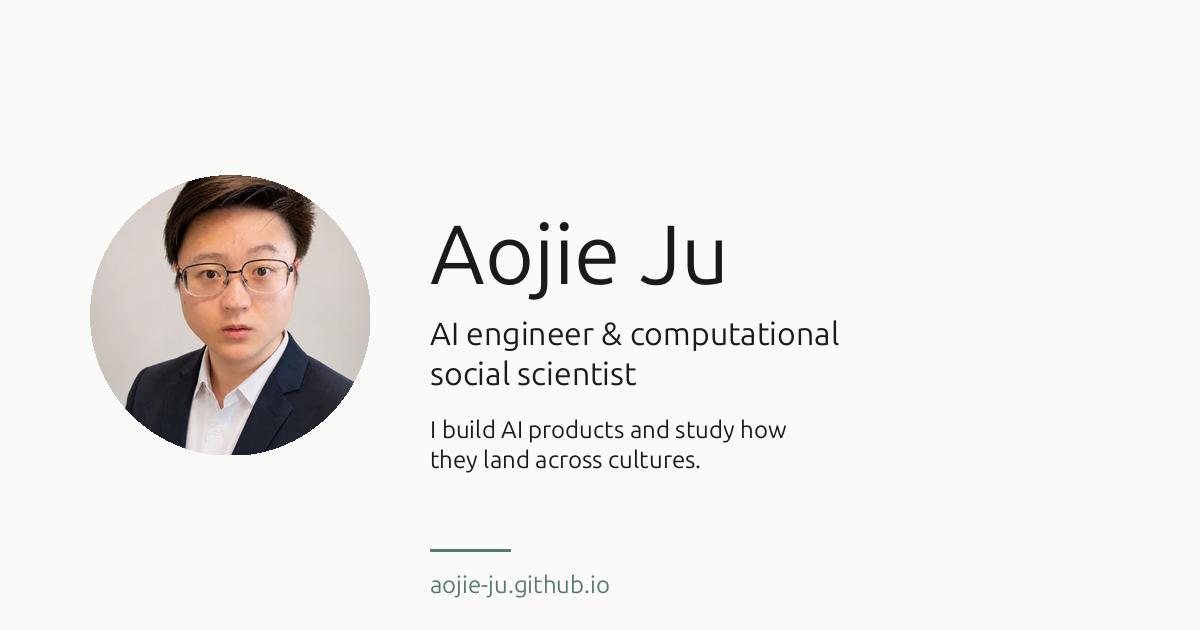
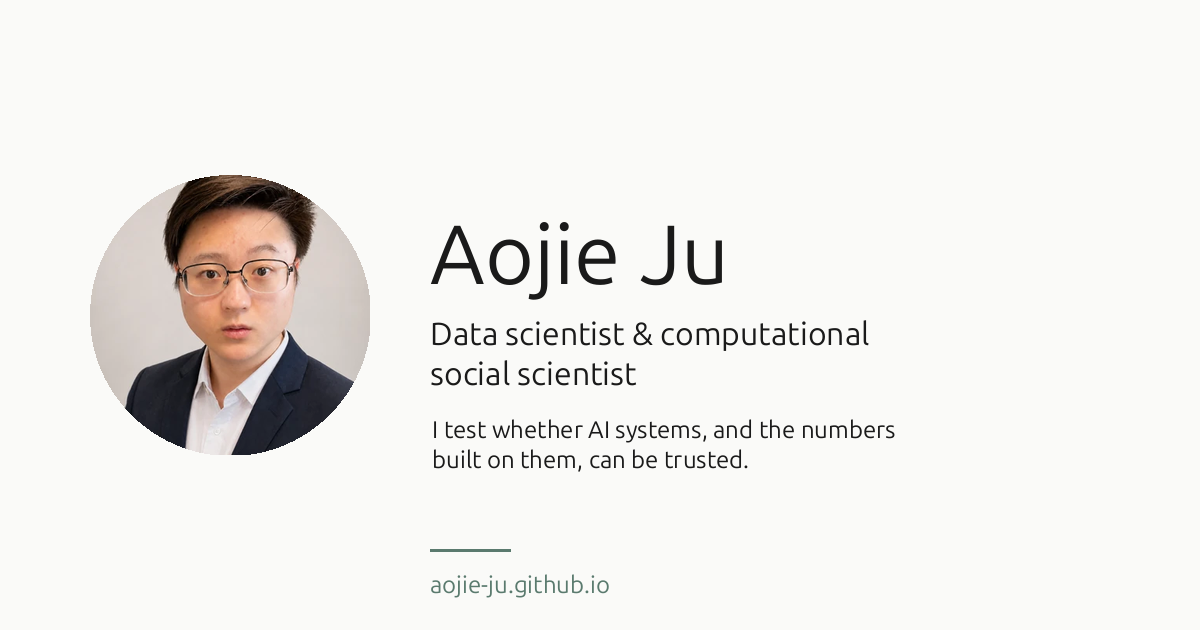
Align the site with the October CV: data scientist, no client details
- AristAI described as Data Scientist (Sept 2026 on), in the same general
  terms as the CV: no client names, no pre-employment work
- Remove the National Accreditation Platform entry and the ETF work
- IRisk Lab presented as research; drop the unsupported "3% error" claim
- Paper summary matches the CV (no "uncorrelated" claim)
- Title, metadata, structured data and the OG image say data scientist

Changed region(s): [[0.3392, 0.6635, 0.74, 0.754], [0.3392, 0.5127, 0.74, 0.573]]

diff --git a/app/page.tsx b/app/page.tsx
@@ -25,8 +25,8 @@ export default function Home() {
           <a href="#research" className="hover:text-sage transition-colors">
             Research
           </a>
-          <a href="#projects" className="hover:text-sage transition-colors">
-            Projects
+          <a href="#work" className="hover:text-sage transition-colors">
+            Work
           </a>
           <a href="#about" className="hover:text-sage transition-colors">
             About
@@ -42,11 +42,12 @@ export default function Home() {
               Aojie Ju
             </h1>
             <p className="text-xl mb-3 leading-snug">
-              I build AI products and study how they land across cultures.
+              I test whether AI systems, and the numbers built on them, can be
+              trusted.
             </p>
             <p className="text-sm text-ink/70 mb-5 leading-relaxed">
-              AristAI AI engineer · IC2S2 2026 paper on computational social
-              science · UIUC MS Data Science · bilingual EN/中文
+              Data Scientist at AristAI · IC2S2 2026 paper on LLM agents · UIUC
+              M.S. Data Science · bilingual EN/中文
             </p>
             <p className="text-sm">
               <a
@@ -94,13 +95,14 @@ export default function Home() {
             (presented at MPSA 2023) and earlier, Asian American political
             behavior — I kept running into the same question: how do
             institutions and the agents inside them actually shape behavior?
-            When the methods to answer it changed, I followed. An MS in Data
-            Science. Last year, quantitative work on weather-derivative
-            pricing, election sentiment, and ETF prediction. Now I build
-            LLM-powered tools for classroom discussion at AristAI, and study
-            what frontier models can and can&apos;t infer about political
-            strategy (IC2S2 2026). The thread is the question and the methods,
-            not the field.
+            When the methods to answer it changed, I followed. An M.S. in Data
+            Science, with research at the Illinois Risk Lab on weather
+            derivatives, insurance, public safety and election sentiment. Now
+            I&apos;m a data scientist at AristAI, working on AI tools for
+            college accreditation and on measuring when their judgments can be
+            trusted, and I study what frontier models can and can&apos;t infer
+            about political strategy (IC2S2 2026). The thread is the question
+            and the methods, not the field.
           </p>
         </section>
 
@@ -116,7 +118,8 @@ export default function Home() {
                   Validating LLM Agents in Spatial Voting Models.
                 </em>{' '}
                 International Conference on Computational Social Science (IC2S2
-                2026), Burlington, VT.{' '}
+                2026), Burlington, VT; an earlier version appeared at the
+                PoliSim Workshop, CHI 2026.{' '}
                 <a
                   href="/papers/ic2s2-2026.pdf"
                   className="text-sage hover:underline"
@@ -125,13 +128,12 @@ export default function Home() {
                 </a>
               </p>
               <p className="text-sm text-ink/70 mt-2 leading-relaxed">
-                Two studies test whether LLMs can both recognize and enact five
-                classic party strategies in a Laver (2005) spatial voting model.
-                GPT-4o recognizes strategies at 39% (vs 20% chance) but, as a
-                competing agent, rigidly plays one strategy regardless of
-                opponent — recognition and use are uncorrelated (r = -0.15),
-                showing that passing an inference test is necessary but
-                insufficient for LLM social-simulation agents.
+                Two studies ask whether LLMs that recognize a party&apos;s
+                strategy from simulated trajectories also choose it when placed
+                in the agent&apos;s role, in Laver&apos;s (2005) spatial model
+                of party competition. Six LLM configurations recognized
+                strategies at 9.4–39% accuracy (chance: 20%); recognizing a
+                strategy and choosing it were not clearly related.
               </p>
             </article>
             <article>
@@ -177,41 +179,43 @@ export default function Home() {
           <div className="space-y-6">
             <article>
               <h3 className="text-base font-semibold mb-1">
-                Colleague AI Distillation MCP Server{' '}
-                <span className="text-sm font-normal text-ink/60">— 2025</span>
+                Pricing Weather Derivatives under Stochastic Volatility{' '}
+                <span className="text-sm font-normal text-ink/60">
+                  — IRisk Lab, co-authored team report, 2025
+                </span>
               </h3>
               <p className="text-sm leading-relaxed text-ink/85">
-                Standalone MCP server synthesizing domain-expert evaluator
-                personas from heterogeneous scholarly sources (Google Scholar,
-                ORCID, ResearchGate) via Claude-generated 5-layer schemas.
+                Led model calibration: an Ornstein–Uhlenbeck temperature model
+                with Cox–Ingersoll–Ross volatility, fit to 45 years of daily
+                data for 13 cities. Priced degree-day derivatives by Monte Carlo
+                and FFT and checked them against CME settlement prices; the
+                standard model understated tail risk.
               </p>
             </article>
             <article>
               <h3 className="text-base font-semibold mb-1">
-                2024 Election Sentiment &amp; Voting Forecasts{' '}
+                2024 Election Sentiment{' '}
                 <span className="text-sm font-normal text-ink/60">
                   — IRisk Lab, 2024
                 </span>
               </h3>
               <p className="text-sm leading-relaxed text-ink/85">
-                Transformer-based sentiment analysis (Cardiff RoBERTa,
-                fine-tuned LSTM) forecasting voting outcomes within 3% error;
-                methodological connection to LLM-based public-opinion
-                measurement.
+                Measured sentiment in 2024 presidential-election tweets (Cardiff
+                RoBERTa, fine-tuned LSTM) and documented where model-based
+                opinion measurement breaks down.
               </p>
             </article>
             <article>
               <h3 className="text-base font-semibold mb-1">
-                Pricing Weather Derivatives under Stochastic Volatility{' '}
+                Insurance and Public-Safety Models{' '}
                 <span className="text-sm font-normal text-ink/60">
-                  — IRisk Lab, co-authored, 2025
+                  — IRisk Lab, 2024–2025
                 </span>
               </h3>
               <p className="text-sm leading-relaxed text-ink/85">
-                Calibrated Model M (OU + CIR) on daily temperature from 13
-                international cities; priced HDD derivatives via Monte Carlo
-                and FFT; validated against CME market quotes. Led model
-                calibration.
+                Tree-based models predicting life-insurance purchase (AUC from
+                0.78 to 0.86), and a GLM for San Francisco crime-prevention
+                analysis (deviance explained from 55% to 63%).
               </p>
             </article>
             <article>
@@ -222,44 +226,47 @@ export default function Home() {
                 </span>
               </h3>
               <p className="text-sm leading-relaxed text-ink/85">
-                Sole-authored quasi-experimental RDD on the Cape/Boer
-                demarcation in South Africa; finds the land system drives
-                4–12% gaps in modern compulsory education and household
-                electricity.
+                Sole-authored regression discontinuity design at the Cape/Boer
+                boundary in South Africa: the land system, not legal or cultural
+                Anglicization, drives 4–12% gaps in compulsory schooling and
+                household electricity today.
               </p>
             </article>
           </div>
         </section>
 
-        {/* Projects */}
-        <section id="projects" className="mb-20 scroll-mt-16">
-          <h2 className="text-xl font-semibold mb-6">Projects</h2>
+        {/* Work and Projects */}
+        <section id="work" className="mb-20 scroll-mt-16">
+          <h2 className="text-xl font-semibold mb-6">Work and Projects</h2>
           <div className="space-y-8">
             <article>
               <h3 className="text-base font-semibold mb-2">
-                AristAI{' '}
+                AristAI, Data Scientist{' '}
                 <span className="text-sm font-normal text-ink/60">
                   — Sept 2026 → Present
                 </span>
               </h3>
               <p className="text-sm text-ink/70 mb-2 leading-snug">
-                Real-time AI copilot for live classroom discussions.
+                AI tools that turn a college&apos;s own files into a
+                submission-ready accreditation self-study.
               </p>
               <p className="text-sm leading-relaxed text-ink/85 mb-3">
-                AI-assisted classroom forum used by instructors to run live
-                discussion sessions with real-time AI copilot support. I
-                designed the LLM-based voice intent classifier (30+ intent
-                categories, bilingual), the LangGraph-orchestrated copilot
-                with token-cost observability, and the MCP server exposing
-                30+ educational tools to AI agents.
+                Staff confirm the decisions instead of writing and checking by
+                hand. I work on whether the AI can be trusted: every output is
+                traced to the exact files it read and graded by a model from a
+                different provider than the one that wrote it, the AI review is
+                calibrated against an accreditor&apos;s own human ratings, and
+                AI assessments stay advisory, so a person makes the call. I
+                also keep the earnings data honest: public certificate-program
+                earnings stay apart from College Scorecard and Census figures
+                that measure different graduates.
               </p>
               {techTags([
-                'Next.js',
-                'FastAPI',
+                'LLM evaluation',
+                'Calibration',
+                'Python',
                 'PostgreSQL',
-                'LangGraph',
-                'MCP',
-                'Claude API',
+                'Claude Code',
               ])}
             </article>
             <article>
@@ -298,38 +305,6 @@ export default function Home() {
             </article>
             <article>
               <h3 className="text-base font-semibold mb-2">
-                National Accreditation Platform{' '}
-                <span className="text-sm font-normal text-ink/60">
-                  — 2025 → 2026
-                </span>
-              </h3>
-              <p className="text-sm text-ink/70 mb-2 leading-snug">
-                Federal compliance reporting for US higher education, where
-                every published figure carries its provenance.
-              </p>
-              <p className="text-sm leading-relaxed text-ink/85 mb-3">
-                A reporting suite of five print-grade exhibits that attaches
-                data provenance to every figure it publishes and withholds
-                conclusions the underlying record cannot support, integrating
-                BLS, IPEDS, College Scorecard, PSEO, O*NET and Census sources
-                through CIP/SOC/NAICS crosswalks. Also federal Gainful
-                Employment regulatory logic, Ed25519/AES-256-GCM credentialing
-                (IMS CLR 2.0), and a Docker-isolated sandbox for untrusted ML
-                evaluators. The platform entered pilot at Idaho State
-                University in July 2026, preparing workforce programs for
-                federal Workforce Pell eligibility.
-              </p>
-              {techTags([
-                'Express 5',
-                'PostgreSQL',
-                'BullMQ',
-                'Playwright',
-                'Ed25519',
-                'Docker',
-              ])}
-            </article>
-            <article>
-              <h3 className="text-base font-semibold mb-2">
                 tax-workflow-mcp{' '}
                 <span className="text-sm font-normal text-ink/60">
                   — 2026
@@ -360,6 +335,19 @@ export default function Home() {
                 'Zod',
               ])}
             </article>
+            <article>
+              <h3 className="text-base font-semibold mb-2">
+                Colleague AI Distillation MCP Server{' '}
+                <span className="text-sm font-normal text-ink/60">
+                  — 2025
+                </span>
+              </h3>
+              <p className="text-sm leading-relaxed text-ink/85">
+                Standalone MCP server synthesizing domain-expert evaluator
+                personas from heterogeneous scholarly sources (Google Scholar,
+                ORCID, ResearchGate) via Claude-generated 5-layer schemas.
+              </p>
+            </article>
           </div>
         </section>
 
@@ -367,13 +355,13 @@ export default function Home() {
         <section id="about" className="mb-20 scroll-mt-16">
           <h2 className="text-xl font-semibold mb-6">About</h2>
           <p className="text-sm leading-relaxed text-ink/85">
-            Currently in Champaign, IL, working as AI engineer at AristAI.
+            Currently in Urbana, IL, working as a data scientist at AristAI.
             Trained at UIUC (M.S. Data Science 2025; M.A. Political Science
             2024, within Ph.D. program), George Washington University (M.A.
             International Affairs 2020), and Nanjing University (B.A. History
             2018). Mandarin Chinese (native), English (full professional).
-            Currently writing on cross-cultural LLM evaluation and AI-assisted
-            teaching.
+            Currently writing on whether LLM-simulated survey respondents
+            capture how much real people disagree.
           </p>
         </section>
 

diff --git a/app/layout.tsx b/app/layout.tsx
@@ -5,16 +5,16 @@ const siteUrl = 'https://aojie-ju.github.io'
 
 export const metadata: Metadata = {
   metadataBase: new URL(siteUrl),
-  title: 'Aojie Ju — AI engineer & computational social scientist',
+  title: 'Aojie Ju — data scientist & computational social scientist',
   description:
-    'AI engineer at AristAI; IC2S2 2026 paper on computational social science; UIUC MS Data Science; bilingual EN/中文. I build AI products and study how they land across cultures.',
+    'Data scientist at AristAI; IC2S2 2026 paper on LLM agents; UIUC M.S. Data Science; bilingual EN/中文. I test whether AI systems, and the numbers built on them, can be trusted.',
   alternates: {
     canonical: '/',
   },
   openGraph: {
-    title: 'Aojie Ju — AI engineer & computational social scientist',
+    title: 'Aojie Ju — data scientist & computational social scientist',
     description:
-      'I build AI products and study how they land across cultures. AristAI · IC2S2 2026 · UIUC MS Data Science.',
+      'I test whether AI systems, and the numbers built on them, can be trusted. AristAI · IC2S2 2026 · UIUC M.S. Data Science.',
     type: 'profile',
     url: siteUrl,
     siteName: 'Aojie Ju',
@@ -23,14 +23,14 @@ export const metadata: Metadata = {
         url: '/og-image.png',
         width: 1200,
         height: 630,
-        alt: 'Aojie Ju — AI engineer & computational social scientist',
+        alt: 'Aojie Ju — data scientist & computational social scientist',
       },
     ],
   },
   twitter: {
     card: 'summary_large_image',
-    title: 'Aojie Ju — AI engineer & computational social scientist',
-    description: 'I build AI products and study how they land across cultures.',
+    title: 'Aojie Ju — data scientist & computational social scientist',
+    description: 'I test whether AI systems, and the numbers built on them, can be trusted.',
     images: ['/og-image.png'],
   },
 }
@@ -43,7 +43,7 @@ const personSchema = {
   familyName: 'Ju',
   url: siteUrl,
   image: `${siteUrl}/og-image.png`,
-  jobTitle: 'AI Engineer',
+  jobTitle: 'Data Scientist',
   worksFor: { '@type': 'Organization', name: 'AristAI' },
   alumniOf: [
     { '@type': 'CollegeOrUniversity', name: 'University of Illinois Urbana-Champaign' },
@@ -51,12 +51,12 @@ const personSchema = {
     { '@type': 'CollegeOrUniversity', name: 'Nanjing University' },
   ],
   knowsAbout: [
+    'Data science',
+    'AI evaluation',
     'Large language models',
     'Computational social science',
-    'AI evaluation',
-    'Political reasoning in AI',
-    'AI in education',
-    'Cross-cultural AI evaluation',
+    'Causal inference',
+    'Survey research',
   ],
   knowsLanguage: ['English', 'Mandarin Chinese'],
   email: 'mailto:aojieju@gmail.com',
